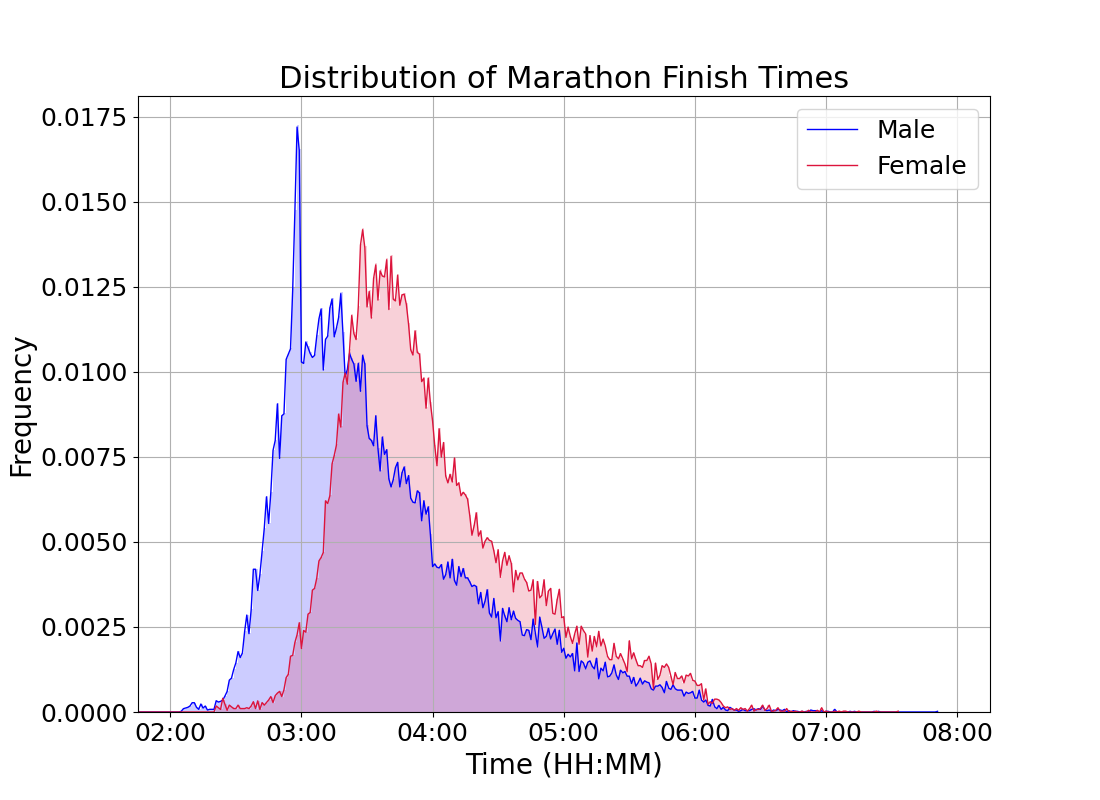
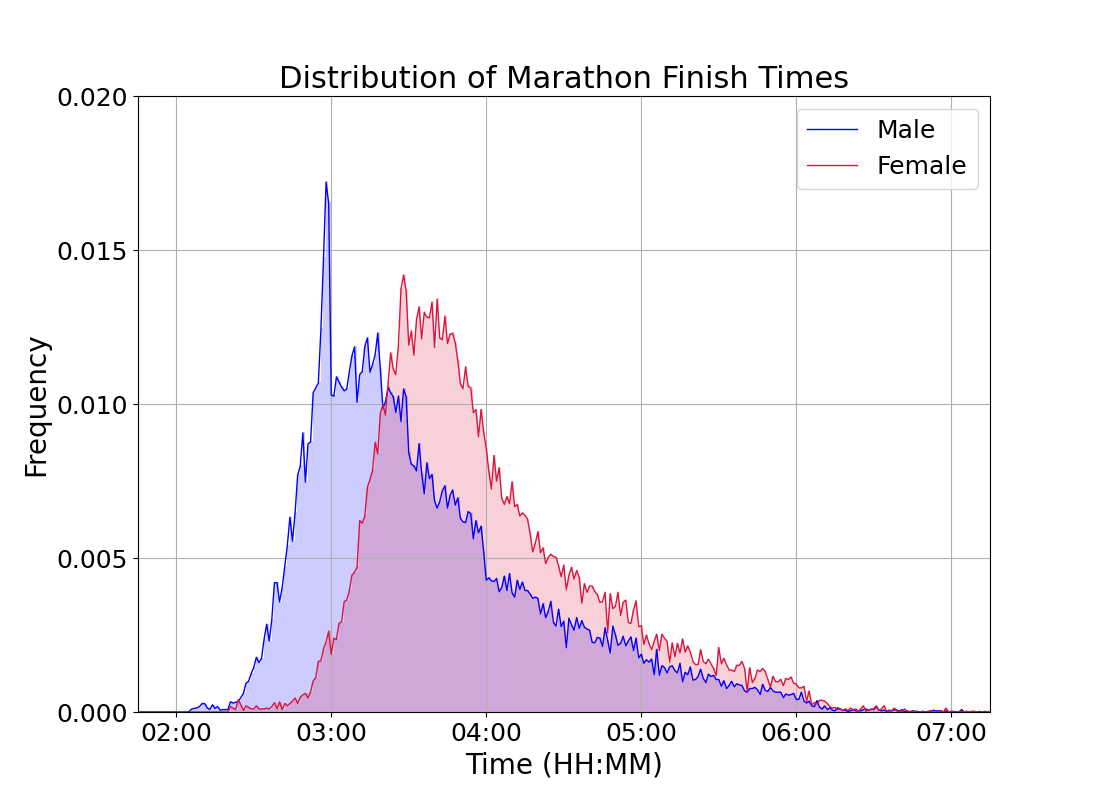
Update plot2 and plot3

diff --git a/plots.py b/plots.py
@@ -13,7 +13,7 @@ random.seed(2024)
 
 def get_plot_dist(races=["bos", "nyc", "chi",], yrs=[2021, 2022, 2023, 2024]):
     """Plot distribution of finish times for a list of races in specified years"""
-    ticks = (60, 120, 180, 240, 300, 360, 420, 480, 540, 600)
+    ticks = (60, 120, 180, 240, 300, 360, 420, 480, 540)#, 600)
     # train_list = [(r, pd.read_csv(f"processed_data/full_data_{r}.csv")) for r in races]
     # cmap = {"bos": "darkgreen", "nyc": "blue", "chi": "crimson"}
     # nmap = {"bos": "Boston", "nyc": "New York", "chi": "Chicago"}
@@ -21,10 +21,11 @@ def get_plot_dist(races=["bos", "nyc", "chi",], yrs=[2021, 2022, 2023, 2024]):
     train_list = [(r, df[df["M/F"] == r]) for r in ["M", "F"]]
     cmap = {"M": "blue", "F": "crimson"}
     nmap = {"M": "Male", "F": "Female"}
-
-    # train_list = [(r, df[(df["Age"] >= lower) & (df["Age"] <= higher)]) for r, lower, higher in [["1", 0, 30], ["2", 31, 40], ["3", 41, 50], ["4", 51, 100]]]
-    # cmap = {"1": "red", "2": "darkgreen", "3": "blue", "4": "purple"}
-    # nmap = {"1": "Under 30", "2": "31 - 40", "3": "41 - 50", "4": "Above 50"}
+    train_list = [(r, df[(df["Age"] >= lower) & (df["Age"] <= higher)]) for r, lower, higher in [["1", 0, 30], ["2", 31, 40], ["3", 41, 50], ["4", 51, 100]]]
+    nmap = {"1": "Under 30", "2": "31 - 40", "3": "41 - 50", "4": "Above 50"}
+    sns.set_palette("crest", n_colors=4, desat=0.8)
+    colors1 = sns.color_palette()
+    cmap = {str(i+1): colors1[i] for i in range(4)}
 
     fig, ax = plt.subplots()
     fig.set_figheight(8)
@@ -40,13 +41,13 @@ def get_plot_dist(races=["bos", "nyc", "chi",], yrs=[2021, 2022, 2023, 2024]):
     labels = [int_to_str_time(60 * t, no_secs=True) for t in ticks]
     
     plt.xticks(ticks, labels=labels, fontsize=18)
-    plt.yticks(fontsize=18)
+    plt.yticks(ax.get_yticks()[::2], fontsize=18) # plt.yticks(fontsize=18)
     plt.xlim(ticks[1] - 15, ticks[-2] - 45)
     plt.xlabel(f"Time (HH:MM)", fontsize=20)
     plt.ylabel("Frequency", fontsize=20)
     plt.title(f"Distribution of Marathon Finish Times", fontsize=22)
     plt.legend(fontsize=18)
-    plt.savefig(f"analysis/plots/plot_dist2.png")
+    plt.savefig(f"analysis/plots/plot_dist3.png")
     plt.close()
 
 
